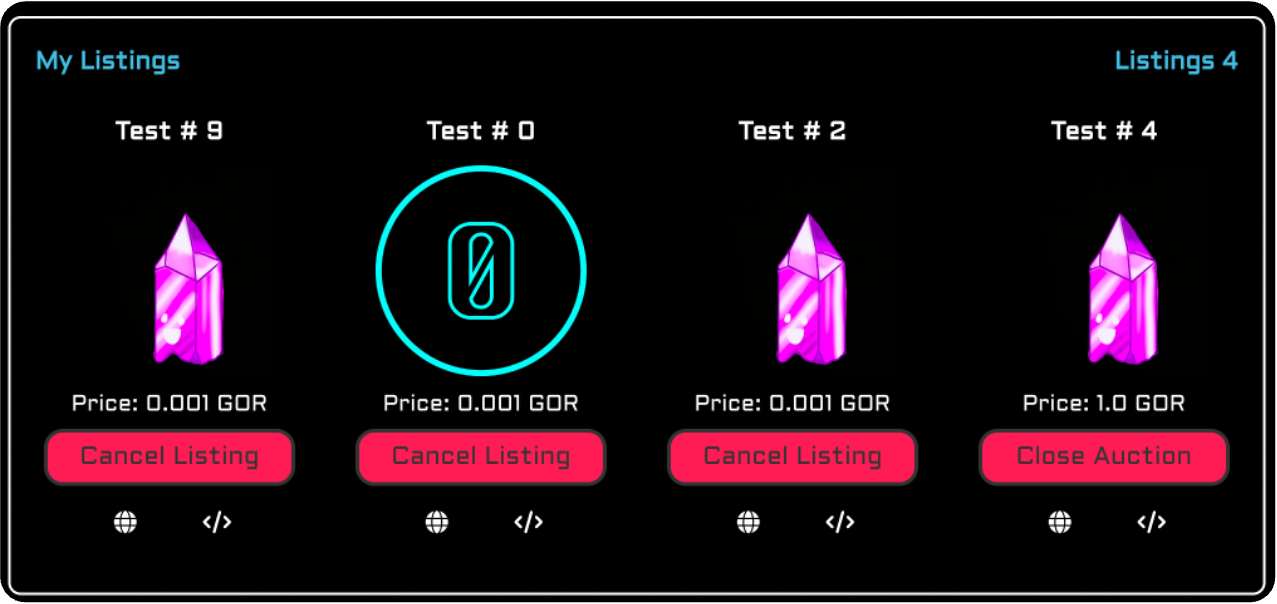
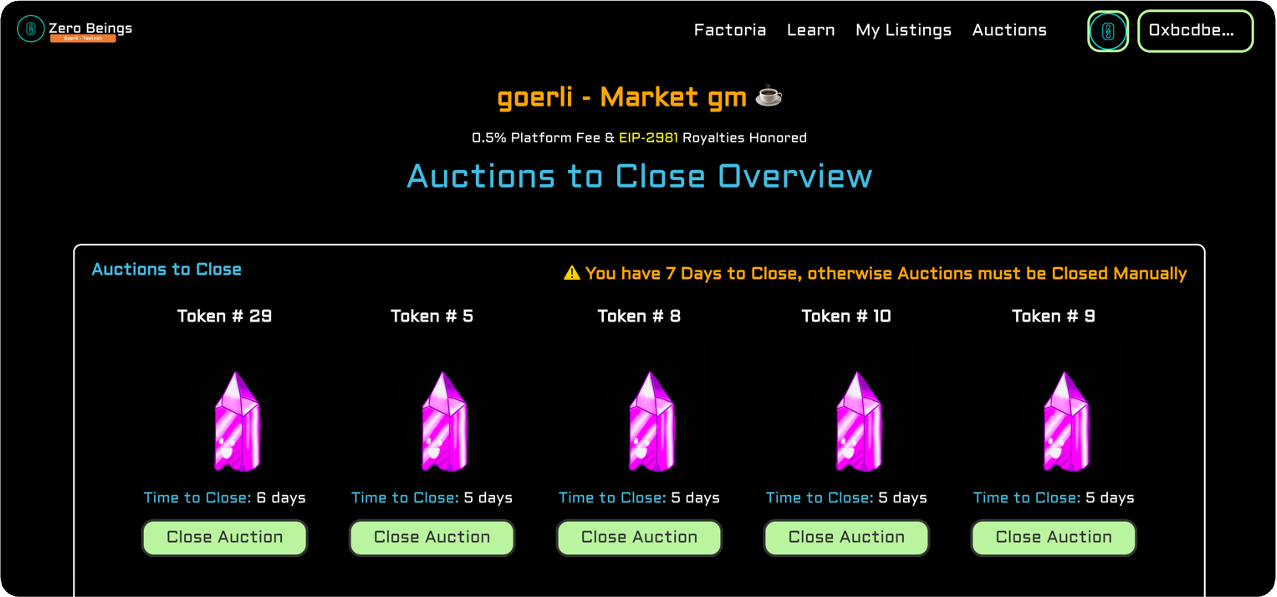
updated auction workflow

diff --git a/README.md b/README.md
@@ -339,9 +339,13 @@ If you would like to purchase the NFT at the listed price, click the "Buy" butto
 >* At the end of the auction, no more bids can be placed.
 >* At the end of the auction, the ```closeAuction``` function needs to be called twice; once for the buyer and once for the seller.
 
-⚠ Take caution when creating an auction as the buyer and seller must close the auction. As a seller, it would be prudent to save the address of the winning bid to attempt reaching out to wallet owner.
+<p align="center" width="100%">
+    <img width="80%" src="images/auctionsOverview.png">
+</p>
 
-To initiate an auction two transactions must occur. The first transaction transfers the NFT being put for auction to escrow in the marketplace contract. The second transaction passes the NFT to be auctioned and the auction parameters. The auction form requires the NFT collection address, NFT token ID, the Sale Price in ETH (buyout price), and the reserve price (minimum initial bid).
+To initiate an auction for a new collection two transactions must occur. The first transaction approves the marketplace contract access to the NFT collection in your wallet. The second transaction transfers the NFT to be auctioned and the auction parameters to the marketplace contract. The auction form requires the NFT collection address, NFT token ID, the Sale Price in ETH (buyout price), and the reserve price (minimum initial bid).
+
+If a collection has already been approved for marketplace access, then only one transaction is required. This transaction transfers the NFT to be auctioned and the auction parameters to the marketplace contract.
 
 <p align="center" width="100%">
     <img width="80%" src="images/createauction.gif">
@@ -356,9 +360,9 @@ After bids are received for an auction the listing details page will display the
 ## Bid on Auctioned NFT
 > Winning bid can be placed within 60 seconds of the auction closing.
 
-To bid on an auction NFT click on the NFT beings auctioned from the Available Listings panel on the Market gm ☕ home page. You will be directed to a detail view of the listing page. Review the listing details. Near the bottom of the listing detail panel there is a section titled "i want that". Click the connect button to connect to the marketplace contract and reveal two purchasing options. The first option is to buyout the NFT. The buyout price is in the listing details. The second option is to place a bid on the NFT. If you are the first person to bid, your bid price must meet the reserve price (minimum bid amount). If there are other bids, they will be listed under the "i want that" title and your bid must be 5% higher than the highest bid. The bid duration is equal to the time left until auction has ended.
+To bid on an auction NFT, click on the NFT being auctioned from the Available Listings panel on the Market gm ☕ home page. You will be directed to a detailed view of the listing page. Review the listing details. Near the bottom of the listing details panel there is a section titled "i want that". Click the connect button to connect to the marketplace contract and reveal two purchasing options. The first option is to buyout the NFT auction. The buyout price is in the listing details. The second option is to place a bid on the NFT. If you are the first person to bid, your bid price must meet the reserve price (minimum bid amount). If there are other bids, they will be listed under the "i want that" title and your bid must be 5% higher than the highest bid. The bid duration is equal to the time left until auction has ended.
 
-> Reminder, if you are the winning bid you must close the auction at the end of the sale duration to complete the transaction and transfer of the NFT into you wallet.
+> Reminder, if you are the winning bid you must close the auction at the end of the sale duration to complete the transaction and transfer of the NFT into your wallet. If you are the seller, you will need to close the auction to transfer the funds for the sale to your wallet.
 
 <p align="center" width="100%">
     <img width="80%" src="images/submittingbid.gif">
@@ -371,42 +375,45 @@ After you have placed a bid on an NFT a My Bids panel will be generated on the M
 </p>
 
 ## Close Auction
-When an auction is created the default auction duration is 7 days. Any bid submitted will expire at the end of the auction.
+When an auction is created the default auction duration is 7 days. At the end of 7 days the auction will expire and the `closeAuction` actions can be performed on the Auctions page.
 
-> At the end of the auction, the ```closeAuction``` function needs to be called twice; once for the buyer and once for the seller. [thirdWeb portal](https://portal.thirdweb.com/pre-built-contracts/marketplace)
+> At the end of the auction, the `closeAuction` function needs to be called twice; once for the buyer and once for the seller. [thirdWeb portal](https://portal.thirdweb.com/pre-built-contracts/marketplace)
+> The Auctions page can take a long time to load, please be patient.
 
 ### Seller
-When the seller is ready to close the auction, the seller wallet address must navigate to the My Listings page. Navigate to NFT being auctioned under the My Listings panel and click "Close Auction" located under the NFT being auctioned. In this example, test #4 is the NFT with the "Close Auction" option. When the seller closes the auction the winning bid amount is transferred to the seller's wallet.
+When the seller is ready to close the auction, the seller wallet address must navigate to the Auctions page. Navigate to NFT being auctioned and click "Close Auction" located under the NFT being auctioned. When the seller closes the auction the winning bid amount is transferred to the seller's wallet.
 
 <p align="center" width="100%">
     <img width="80%" src="images/sellercloseauction.png">
 </p>
 
-> ⚠ It is recommended to take record of the highest bidders address prior to closing the auction.
+> ⚠ It is recommended to take record of the token ID and date in which an auction will expire.
 
-Once the close auction function is initiated. You will be asked to connect your wallet and then submit the transaction to close the auction. After the auction is closed the NFT will no longer be available on your listings panel. 
+Once the close auction function is initiated. You will be asked to connect your wallet and then submit the transaction to close the auction.
 
 ### Buyer
-At the close of the auction a Close Auction button will appear below you bids. If you held the winning bid, you click the Close Auction button under the winning bid in the My Bids Panel. All bids will be displayed in the My Bids panel. If you are in a bidding war for an NFT, all bids placed for that NFT will be listed here. When the buyer with the winning bid closes the auction, the NFT is transferred to the wallet address of the winning bid.
+At the expiration of the auction your bids will display "Auction Ended" during the listing deactivation process. After the auction expires, navigate to the Auctions page to determine if you held the winning bid. If you held the winning bid, the NFT will appear in the auctions to close panel! When the buyer with the winning bid closes the auction, the NFT is transferred to the wallet address of the winning bid.
+
+> ⚠ It is recommended to take record of the token ID and date in which an auction will expire.
 
 <p align="center" width="100%">
     <img width="80%" src="images/myBidspanelCloseAuction.png">
 </p>
 
-In this example, you will click on the Close Auction button below the bid for 0.003 GOR.
-
-<p align="center" width="100%">
-    <img width="33%" src="images/closeauctionimg.png">
-</p>
-
 ## Buyout auction
-If you would prefer to buyout the auction, you can do so by clicking the "Buyout" button. First search the NFT collection of interest, locate the NFT that is available for auction. Click on the "Place Bid" button. You will be navigated to the listings detail page. Review the details of the NFT and the buyout price displayed in the detail view. Navigate to the "i want that" section, then connect your wallet. Click "Buyout" to initiate the buy function to buyout the auction. The auction is automatically closed for the buyer during the buyout.
 
-⚠ The seller must close the auction in the buyout scenario.
+### Buyer
+If you would prefer to buyout the auction, you can do so by clicking the "Buyout" button. First search the NFT collection of interest, locate the NFT that is available for auction. Click on the "Place Bid" button. You will be navigated to the listings detail page. Review the details of the NFT and the buyout price displayed in the detailed view. Navigate to the "i want that" section, then connect your wallet. Click "Buyout" to initiate the buy function to buyout the auction. The auction is automatically closed for the buyer during the buyout.
 
 <p align="center" width="100%">
     <img width="80%" src="images/buyoutAuction.gif">
 </p>
+
+
+### Seller
+> ⚠ The seller still must close the auction in the buyout scenario.
+
+If a buyout condition has been met, navigate to the Auctions page. Locate the NFT that has reached the buyout condition and click the "Close Auction" button.
 
 # Metadata Structure
 It is recommended to follow the metadata structure standard developed by [opensea](https://docs.opensea.io/docs/metadata-standards).
@@ -492,7 +499,9 @@ If you still want to use Web3Modal v1.0 but just upgrade the WalletConnect ether
 3. Navigate to the project directory `cd zerb-nft-marketplace`.
 4. Install dependencies with `npm install`.
 5. Change `.env.example` to `.env` and add your environment variables.
-6. Run `node server` (🚨 not recommended by Wallet Connect) or set up a [localtunnel](https://theboroer.github.io/localtunnel-www/) (recommended).
+6. Change mbox.example.json and gbox.example.json to mbox.json and gbox.json
+7. Remove mbox.json and gbox.json from .gitignore for private repositories
+8. Run `node server` (🚨 not recommended by Wallet Connect) or set up a [localtunnel](https://theboroer.github.io/localtunnel-www/) (recommended).
 
 ### Making it your Own
 1. Change the NFT gating contract and user name.
